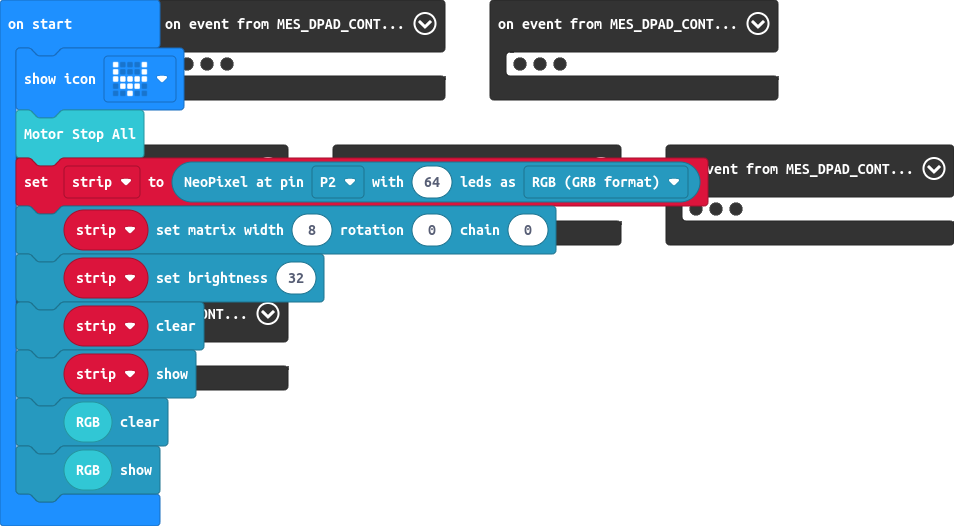
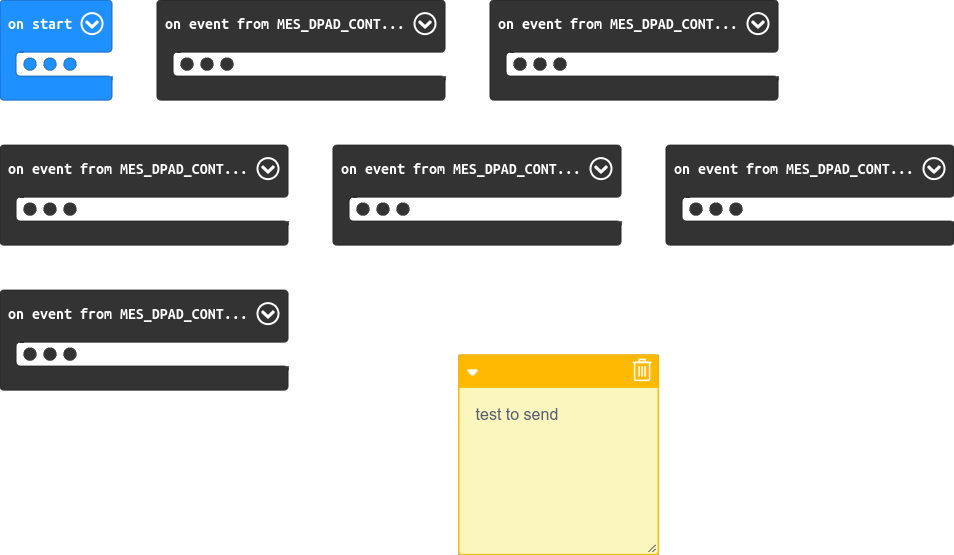
added rem to test error prior to sending to makecode

diff --git a/main.ts b/main.ts
@@ -1,3 +1,6 @@
+/**
+ * test to send
+ */
 control.onEvent(EventBusSource.MES_DPAD_CONTROLLER_ID, EventBusValue.MES_DPAD_BUTTON_C_DOWN, function () {
     robotbit.MotorRun(robotbit.Motors.M1A, 32)
     basic.pause(1000)
